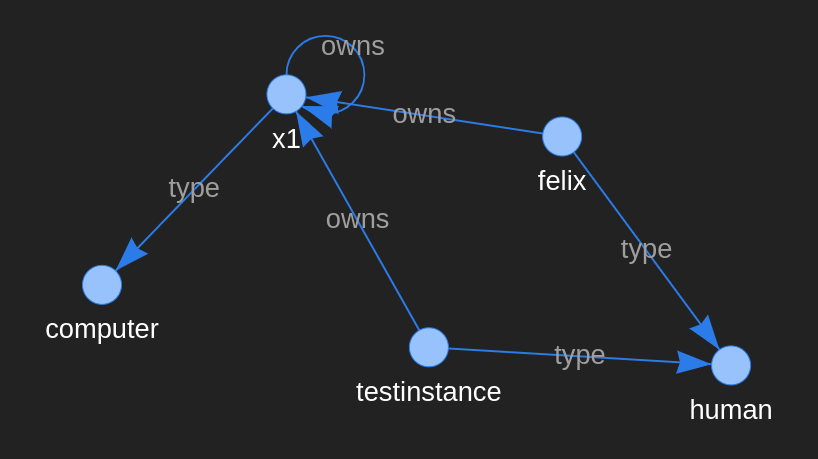
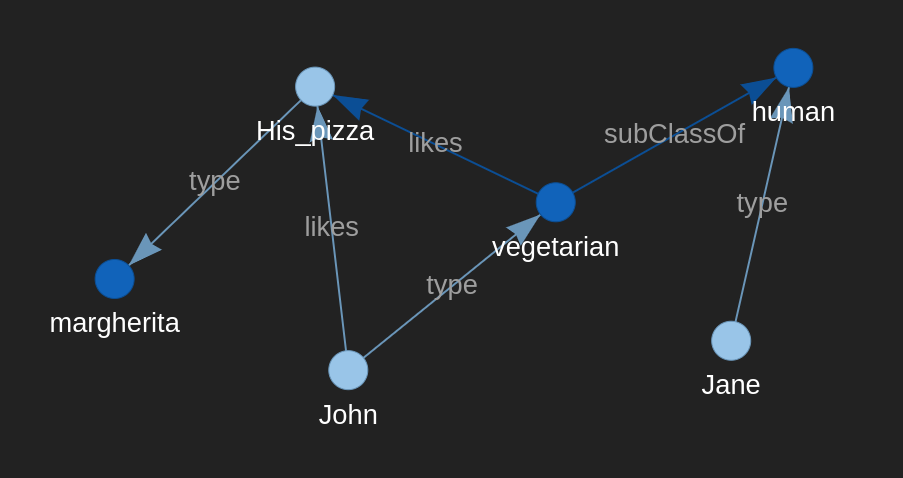
changed minimal example and updated docs accordingly - inspired by Protege's Pizzas in 10 minutes

diff --git a/example/example.py b/example/example.py
@@ -25,16 +25,20 @@ def create_first_onto():
     iri = "http://example.org/onto-ex.owl"
     fname = "./onto-ex.owl"
     classes = [["human", None, None, None, None, None, None],\
-               ["computer", None, None, None, None, None, None],\
-               ["process", None, None, None, None, None, None]]
-    ops = [["owns", None, None, "computer", False, False, False, False, False, False, False, None]]
-    dps = [["clock_rate", None, False, "computer", "float", None, None, None, None, None],
-           ["pixel_width", None, False, "computer", "integer", None, None, None, None, None],
-           ["description", None, False, "computer", "string", None, None, None, None, None]]
-    axs = [["human", None, "owns", "some", None, "computer", None, None, None, None, None, None, False]]
-    ins = [["felix", "human", None, None, None],\
-           ["x1", "computer", None, None, None],\
-           ["felix", "human", "owns", "x1", None]]
+               ["vegetarian", "human", None, None, None, None, None],\
+               ["food", None, None, None, None, None, None],\
+               ["pizza", "food", None, None, None, None, None],\
+               ["pizza_base", "food", None, None, None, None, None],\
+               ["pizza_topping", "food", None, None, None, None, None],\
+               ["margherita", "pizza", None, None, None, None, None]]
+    ops = [["likes", None, "human", None, False, False, False, False, False, False, False, None]]
+    dps = [["diameter_in_cm", None, True, "pizza", "integer", None, None, None, None, None],
+           ["weight_in_grams", None, True, "pizza", "float", None, None, None, None, None],
+           ["description", None, False, "food", "string", None, None, None, None, None]]
+    axs = [["human", None, "likes", "some", None, "food", None, None, None, None, None, None, False]]
+    ins = [["John", "vegetarian", None, None, None],\
+           ["His_pizza", "margherita", None, None, None],\
+           ["John", "vegetarian", "likes", "His_pizza", None]]
     ontor1 = ontor.OntoEditor(iri, fname)
     ontor1.add_axioms(classes)
     ontor1.add_ops(ops)
@@ -45,69 +49,83 @@ def create_first_onto():
 def create_second_onto():
     iri = "http://example.org/onto-ex-add.owl"
     fname = "./onto-ex-add.owl"
-    classes = [["tablet", None, None, None, None, None, None]]
+    classes = [["beverage", None, None, None, None, None, None],
+               ["water", "beverage", None, None, None, None, None]]
     ontor2 = ontor.OntoEditor(iri, fname)
     ontor2.add_axioms(classes)
 
-def modify_onto(break_by_disjoint=False):
-    """
-    :param break_by_disjoint: if True disjoints are added that the reasoner cannot handle
-    """
-    classes = [["test", "human", None, None, None, None, None],\
+def modify_onto():
+    classes = [["company", None, None, None, None, None, None],\
+               ["pizza_company", "company", None, None, None, None, False],\
+               ["margherita_company", "pizza_company", None, None, None, None, False],\
                [None, None, None, None, None, None, None],\
-               ["test2", "test", None, None, None, None, False],\
-               ["somecompany", "test", None, None, None, None, False]]
-    ins = [["testinstance", "human", "owns", "x1", None],\
-           ["ti2", None, None, None, None],\
-           ["x1", "computer", "clock_rate", "3.1", "float"],\
-           ["x1", "computer", "pixel_width", "1920", "integer"],\
-           ["x1", "computer", "description", "my personal x1", "string"],\
-           ["x1", "computer", "owns", "x1", None]]
+               ["quattro_stagioni", "pizza", None, None, None, None, False]]
+    ins = [["Her_pizza", "quattro_stagioni", None, None, None],\
+           ["Jane", "human", "likes", "Her_pizza", None],\
+           ["Faulty_pizza", None, None, None, None],\
+           ["Her_pizza", "quattro_stagioni", "weight_in_grams", "430.0", "float"],\
+           ["Her_pizza", "quattro_stagioni", "diameter_in_cm", "32", "integer"],\
+           ["Her_pizza", "quattro_stagioni", "description", "jane's pizza", "string"]]
+    axs = [["pizza_company", "company", "produces", "some", None, "pizza", None, None, None, None, None, None, False],
+           ["pizza_company", "company", "likes", "some", None, "food", None, None, None, None, None, None, False]]
     ontor3 = ontor.OntoEditor("http://example.org/onto-ex.owl", "./onto-ex.owl")
     ontor3.add_axioms(classes)
-    print(list(elem for elem in ontor3.get_elems()[0]))
+    # print(list(elem for elem in ontor3.get_elems()[0]))
     ontor3.add_ops(ontor.load_json("./data/props.json")["op"])
-    print(list(elem for elem in ontor3.get_elems()[0]))
+    # print(list(elem for elem in ontor3.get_elems()[0]))
     ontor3.add_dps(ontor.load_json("./data/props.json")["dp"])
-    print(list(elem for elem in ontor3.get_elems()[0]))
+    # print(list(elem for elem in ontor3.get_elems()[0]))
     ontor3.add_instances(ins)
-    print(list(elem for elem in ontor3.get_elems()[0]))
+    # print(list(elem for elem in ontor3.get_elems()[0]))
     ontor3.add_axioms(ontor.load_csv("./data/class_axioms.csv"))
-    print(*ontor3.get_axioms()[0], sep="\n")
+    # print(*ontor3.get_axioms()[0], sep="\n")
+    ontor3.add_axioms(axs)
 
-    ontor3.add_distinctions([["classes", ["human", "process"]]])
+    ontor3.add_distinctions([["classes", ["human", "pizza"]],
+                             ["classes", ["has_base", "has_topping"]]])
 
-    if break_by_disjoint:
-        ontor3.add_distinctions([["classes", ["ops1", "ops2", "ops3"]],\
-                                 ["classes", ["human", "computer"]],\
-                                 ["instances", ["felix", "x1"]]])
-
-    print(*ontor3.get_axioms(), sep="\n")
+    # print(*ontor3.get_axioms(), sep="\n")
     ontor3.add_import("file://./onto-ex-add.owl")
-#    ontor3.save_as("test.owl")
-
-#    ontor3.remove_restrictions_on_class("test2")
+    # ontor3.save_as("test.owl")
 
     print("inconsistent classes")
     print(ontor3.reasoning("hermit", False))
     print("debugging")
     ontor3.debug_onto(assume_correct_taxo=False)
 
-    # # removing restrictions
-    # print(ontor3.get_class_restrictions("test2"))
-    # ontor3.remove_restrictions_including_prop("owns")
-    # ontor3.remove_restrictions_on_class("test")
-    # ontor3.remove_from_taxo(["test"])
-    # print(ontor3.get_class_restrictions("test2"))
+    # removing objects from the onto
+    # removing restrictions by op - produces
+    ontor3.remove_restrictions_including_prop("produces")
+    _test_rm(ontor3.get_class_restrictions("pizza_company"),\
+            ["onto-ex.likes.some(onto-ex.food)"], "produces restrictions")
+    # removing restrictions by class - pizza_company
+    ontor3.remove_restrictions_on_class("pizza_company")
+    _test_rm(ontor3.get_class_restrictions("pizza_company"),\
+            [], "restrictions on pizza_company")
+    # removing entities - pizza_company
+    ontor3.remove_from_taxo(["pizza_company"])
+    _test_rm(ontor3.get_class_restrictions("margherita_company", res_only= False),\
+            ["onto-ex.company"], "pizza_company")
+    # removing relations - produces
+    ontor3.remove_elements(["produces"])
+    _test_rm(ontor3.get_elems()[1],\
+            ["onto-ex.likes", "onto-ex.part", "onto-ex.has_base", "onto-ex.has_topping"],\
+            "produces")
 
-    # # removing entities
-    # print([elem for elem in ontor3.get_elems()[1]])
-    # ontor3.remove_elements(["ops1"])
-    # print([elem for elem in ontor3.get_elems()[1]])
+    ontor3.visualize(classes=["human", "pizza"], properties=["likes", "diameter_in_cm"],\
+                     focusnode="John", radius=2)
 
-    # ontor3.export_ntriples()
-    # ontor3.visualize()
-    ontor3.visualize(classes=["human","computer"], properties=["owns", "pixel_width"], focusnode="felix", radius=2)
+def _test_rm(as_is: list, as_expected: list, elem: str) -> None:
+    """ check whether remove function worked as expected
+
+    :param as_is: current elements
+    :param as_expected: elements expected after modification
+    """
+    as_is = [str(e) for e in as_is]
+    if set(as_is) == set(as_expected):
+        print(f"successfully removed {elem} (reparented subclasses and instances if applicable)")
+    else:
+        print(f"removing {elem} failed")
 
 def check_import():
     ontor4 = ontor.OntoEditor("http://example.org/onto-ex.owl", "./onto-ex.owl", ["."])

diff --git a/README.md b/README.md
@@ -20,13 +20,15 @@ ontor provides a tuple based syntax with JSON and CSV support for ontology editi
 * generate documentation via sphinx using the makefile in docs/: ```make html```
 
 ## demo
+the directory *example/* includes a demo application inspired by [Protégé's Pizzas example](https://protegewiki.stanford.edu/wiki/Protege4Pizzas10Minutes)
+
 interactively debug your ontology\
 in the example: ```ontor3.debug_onto()```
 
 <img src="docs/debug.gif" width="500"/>
 
-visualize selected classes and properties within a radius of two relations around the node "felix"\
-in the example: ```ontor3.visualize(["human", "computer"], ["owns", "ops2"], "felix", 2)```
+visualize selected classes and properties within a radius of two relations around the node "John"\
+in the example: ```ontor3.visualize(classes=["human", "pizza"], properties=["likes", "diameter_in_cm"], focusnode="John", radius=2)```
 
 <img src="docs/visualize.png" alt="visualize selected ontology parts" width="500"/>
 
